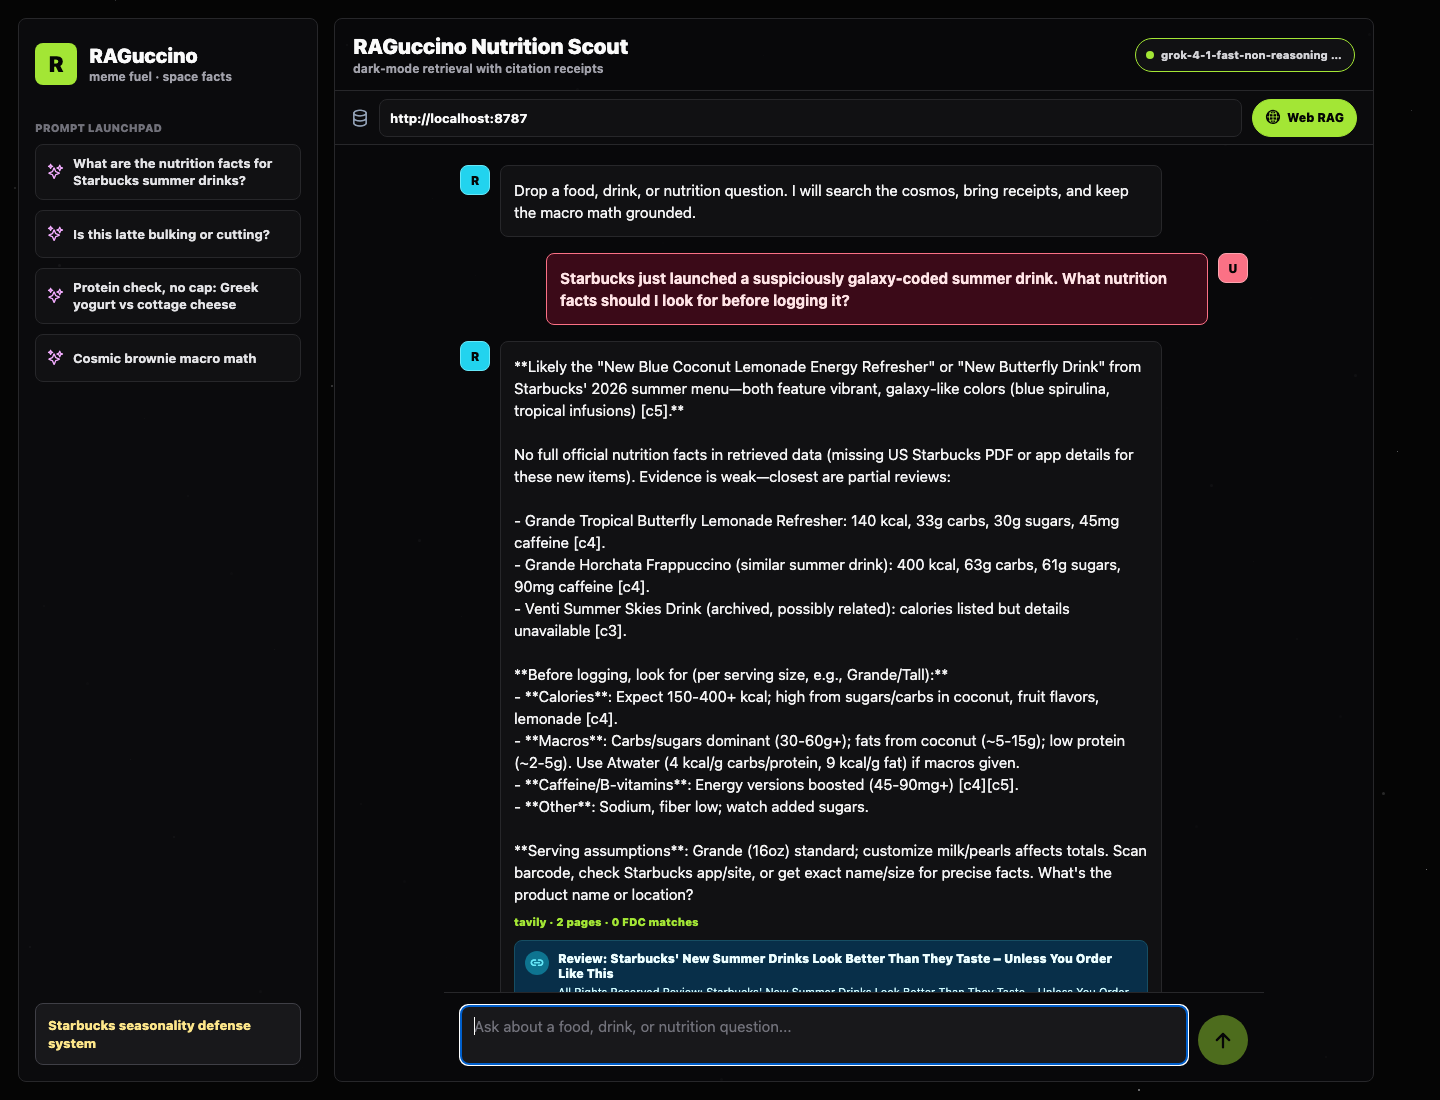
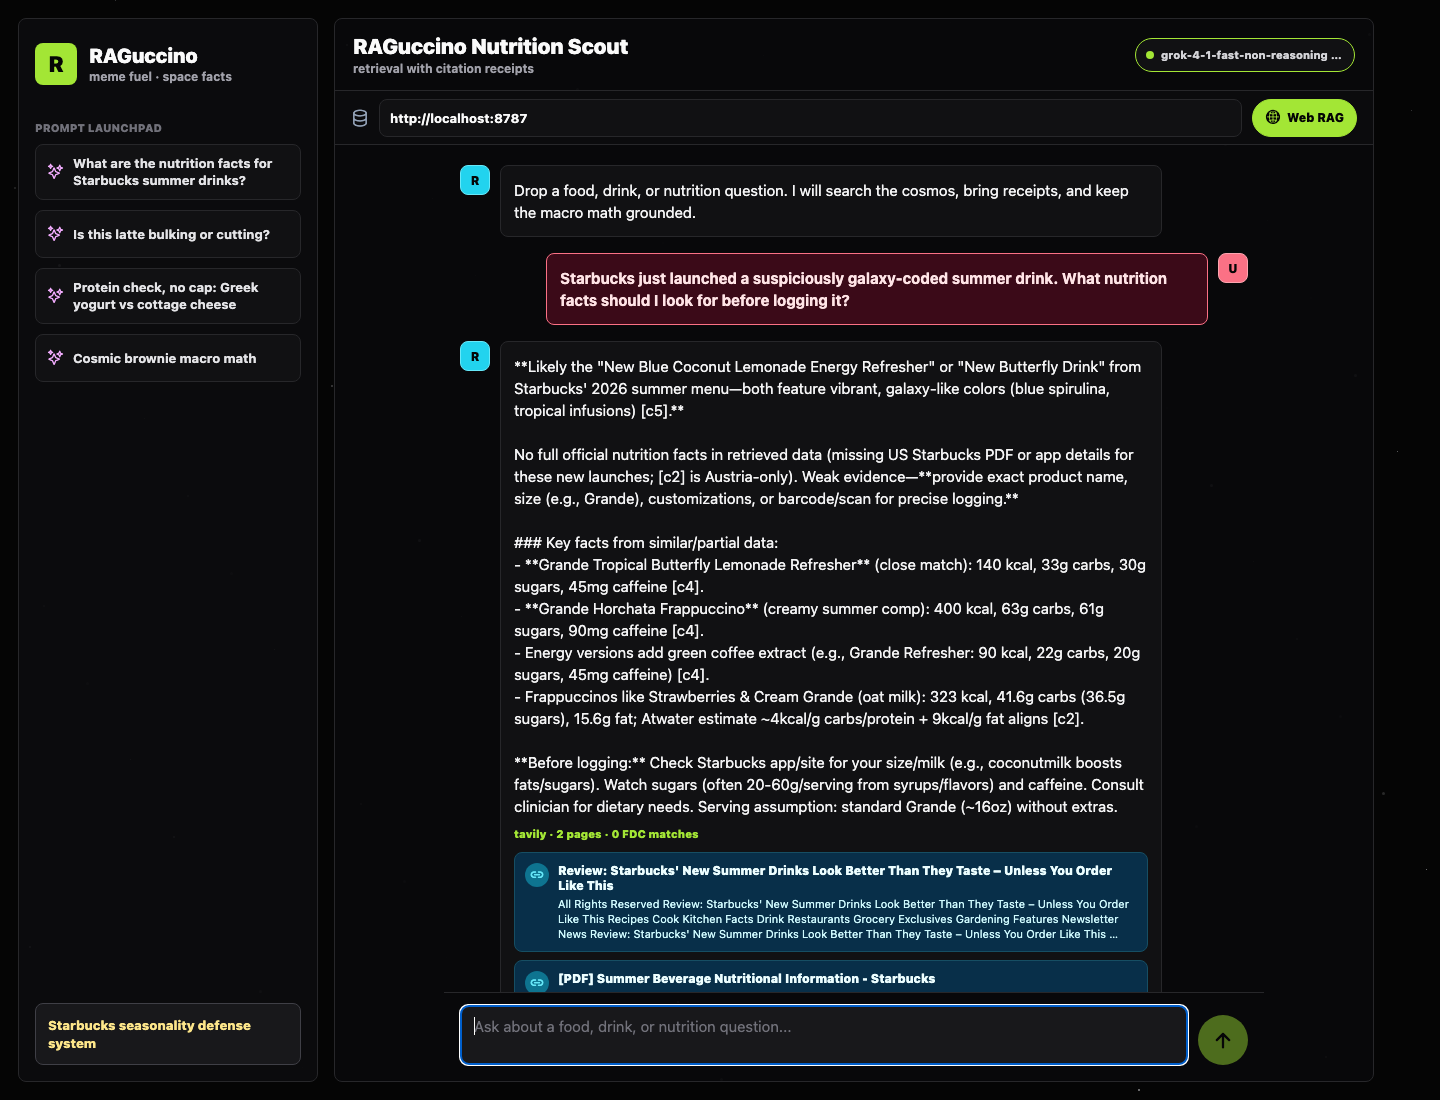
Polish RAGuccino for public viewing.

Changed region(s): [[0.3438, 0.4327, 0.8125, 0.8964], [0.25, 0.0618, 0.375, 0.0927]]

diff --git a/App.tsx b/App.tsx
@@ -251,7 +251,7 @@ export default function App() {
           <View style={styles.header}>
             <View style={styles.headerCopy}>
               <Text style={styles.title}>RAGuccino Nutrition Scout</Text>
-              <Text style={styles.subtitle}>dark-mode retrieval with citation receipts</Text>
+              <Text style={styles.subtitle}>retrieval with citation receipts</Text>
             </View>
             <View style={[styles.statusPill, { borderColor: healthTone }]}>
               <View style={[styles.statusDot, { backgroundColor: healthTone }]} />

diff --git a/README.md b/README.md
@@ -1,20 +1,18 @@
 # RAGuccino Nutrition Scout
 
-**Suggested name:** RAGuccino Nutrition Scout.
-
-It starts with **RAG**, says what it does, and keeps the exact production pain point
-easy to remember: Starbucks can drop a new seasonal drink before static food tables
-catch up. This app gives a model a retrieval layer so it can look up nutrition facts,
-cite internet sources, and explain serving assumptions.
+RAGuccino Nutrition Scout is a retrieval app for nutrition questions that move faster
+than static food tables. The representative chaos case: Starbucks drops a new seasonal
+drink before the usual databases have caught up, and the model needs current sources,
+serving assumptions, citations, and macro math before it says anything confident.
 
 RAGuccino is a standalone Expo + Node app designed to solve a production problem in
 Spotter: the coach needs grounded nutrition answers for foods and drinks the base
 model may not know about. Spotter website: https://www.spotter-labs.com
 
-![RAGuccino dark chat interface answering a Starbucks nutrition retrieval question with citations.](assets/readme/raguccino-chat-demo.png)
+![RAGuccino chat interface answering a Starbucks nutrition retrieval question with citations.](assets/readme/raguccino-chat-demo.png)
 
-Dark-mode retrieval, citation receipts, and just enough meme energy to keep Starbucks
-seasonal drink chaos from winning.
+Retrieval, citation receipts, and just enough meme energy to keep Starbucks seasonal
+drink chaos from winning.
 
 ## What This App Does
 